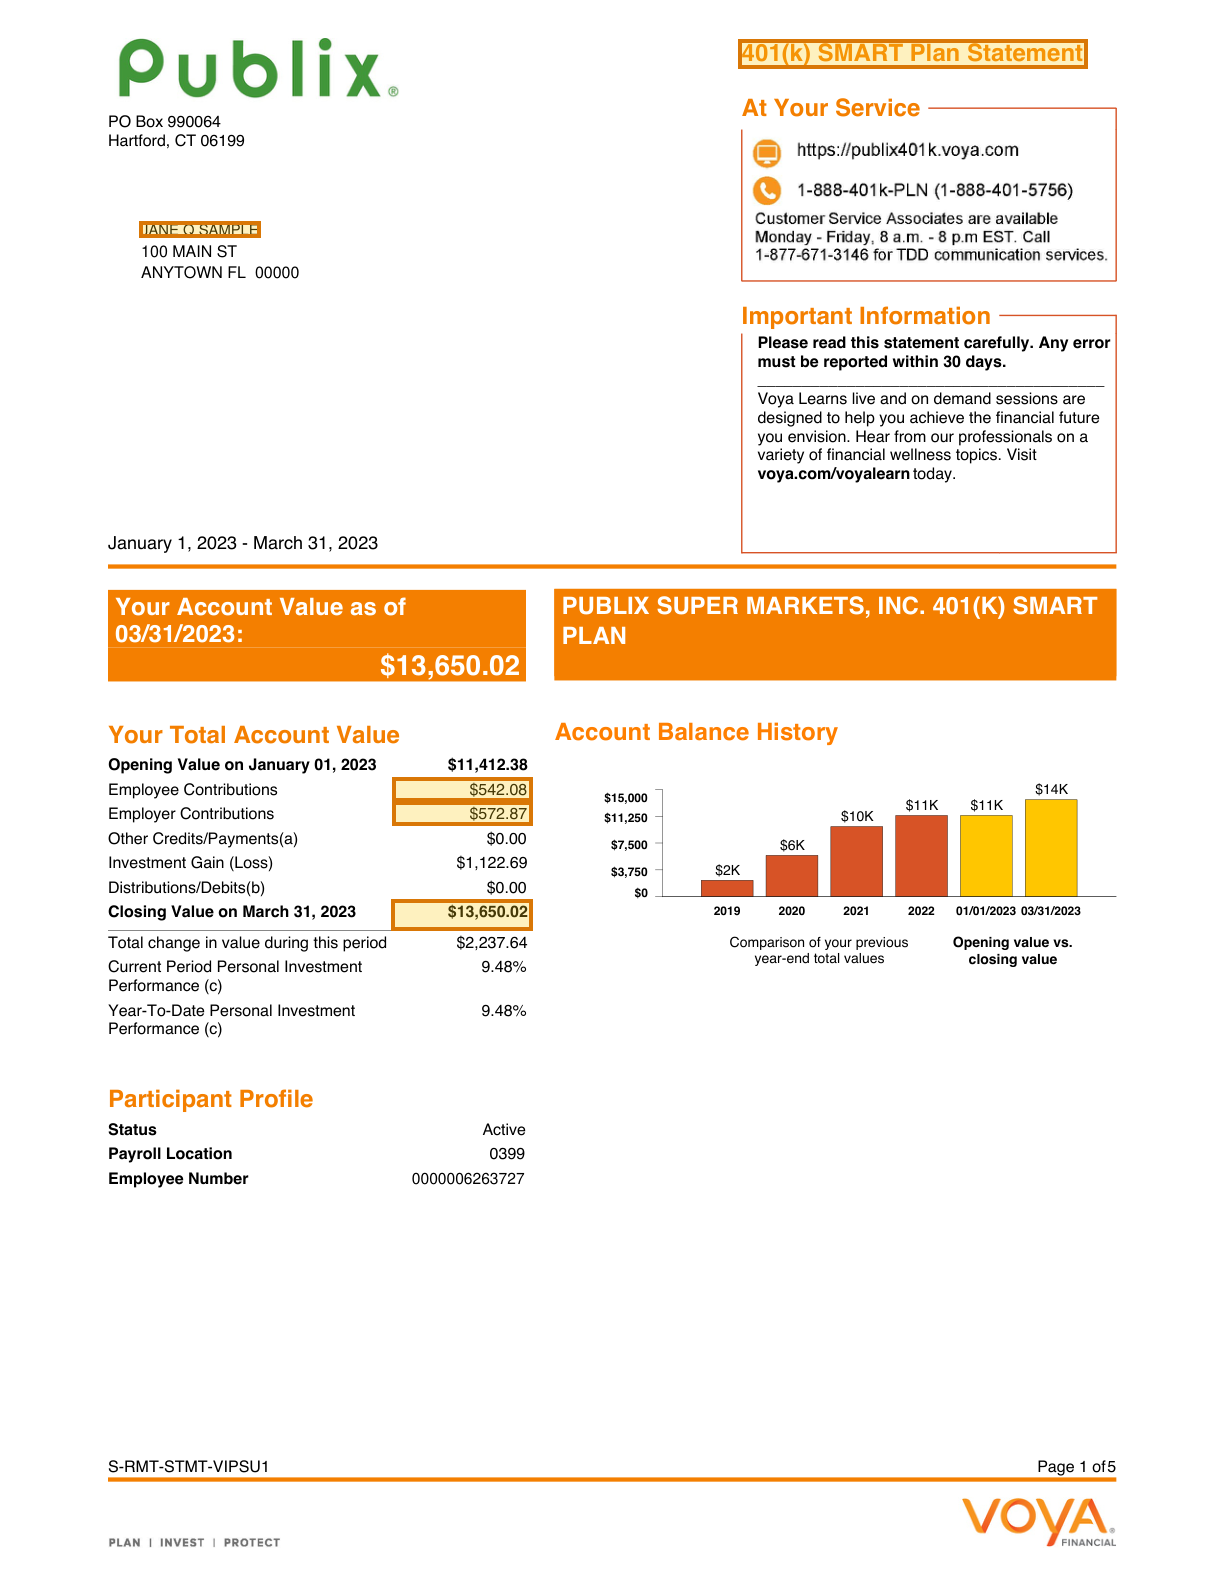
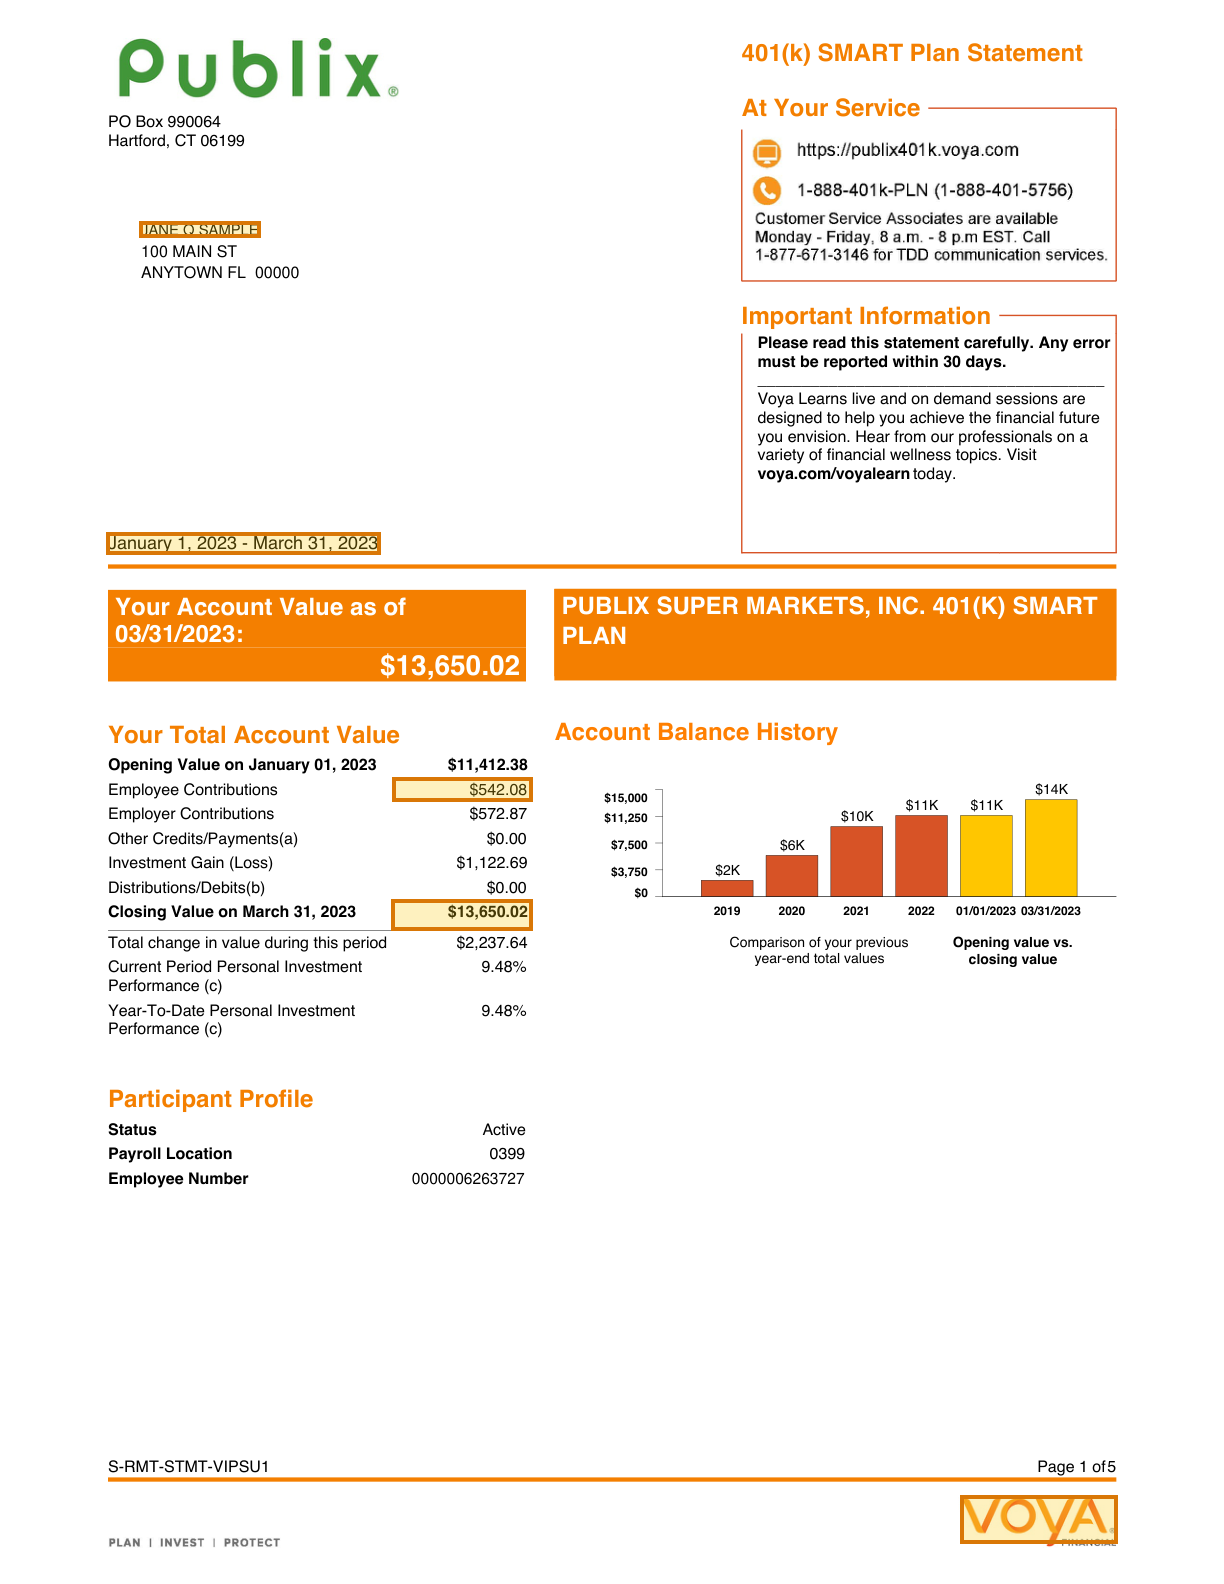
Feature the requested fields on the 401(k) statement
Account holder, statement date, account balance, plan provider and
employee contributions, at the document owner's request. No
re-extraction needed.

diff --git a/document-types/collection/401k-statement/README.md b/document-types/collection/401k-statement/README.md
@@ -59,29 +59,36 @@ The collection's first **401(k) statement**, and different from the TIAA stateme
 
 ## Featured fields: what a lender verifies
 
-All on page 1. The request named no page or fields; following the lending framing used
-for the bank and HELOC statements, these are the fields a lender reads to verify
-retirement assets:
+All on page 1, as the document owner asked:
 
 | Field | Value |
 |---|---|
-| Participant | JANE Q SAMPLE |
-| Plan | 401(k) SMART Plan |
-| Account value | $13,650.02 |
+| Account holder | JANE Q SAMPLE |
+| Statement date | 2023-03-31 |
+| Account balance | $13,650.02 |
+| Plan provider | Voya |
 | Employee contributions | $542.08 |
-| Employer contributions | $572.87 |
 
-The participant is the stand-in name. The account value is the closing value in the
-summary table. The summary reconciles: $11,412.38 opening, plus $542.08 and $572.87 in
-contributions and $1,122.69 in gains, is $13,650.02.
+The account holder is the stand-in name. The account balance is the closing value in the
+summary table, on March 31, 2023. The plan provider is Voya, the recordkeeper, boxed on
+the VOYA logo at the foot of the page, which the parse reads as text. All five were
+already in the schema, so extraction was not re-run.
+
+**The statement date is flagged, and correct.** It is extracted as the ISO date
+2023-03-31 and boxed on the printed period "January 1, 2023 - March 31, 2023", so
+`build_images.py` warns that the value is not in the boxed text. The box contains the
+date in another format; the crop was checked by eye.
+
+The summary reconciles: $11,412.38 opening, plus $542.08 and $572.87 in contributions and
+$1,122.69 in gains, is $13,650.02.
 
 ## What it surfaced
 
 **The employer's name is inside a panel that grounds as one block.** The plan sponsor,
 "PUBLIX SUPER MARKETS, INC. 401(K) SMART PLAN", is printed as the banner of the orange
 panel that also holds the Account Balance History chart, and extraction grounds it to the
-whole panel. It extracts correctly but its box is far too loose to feature, so the
-participant is featured instead.
+whole panel. It extracts correctly but its box is far too loose to feature, so it is
+not featured.
 
 **The headline figure grounds to its neighbour.** The large "$13,650.02" in the orange
 account value banner is not where `account_value` points; its range lands on a nearby
